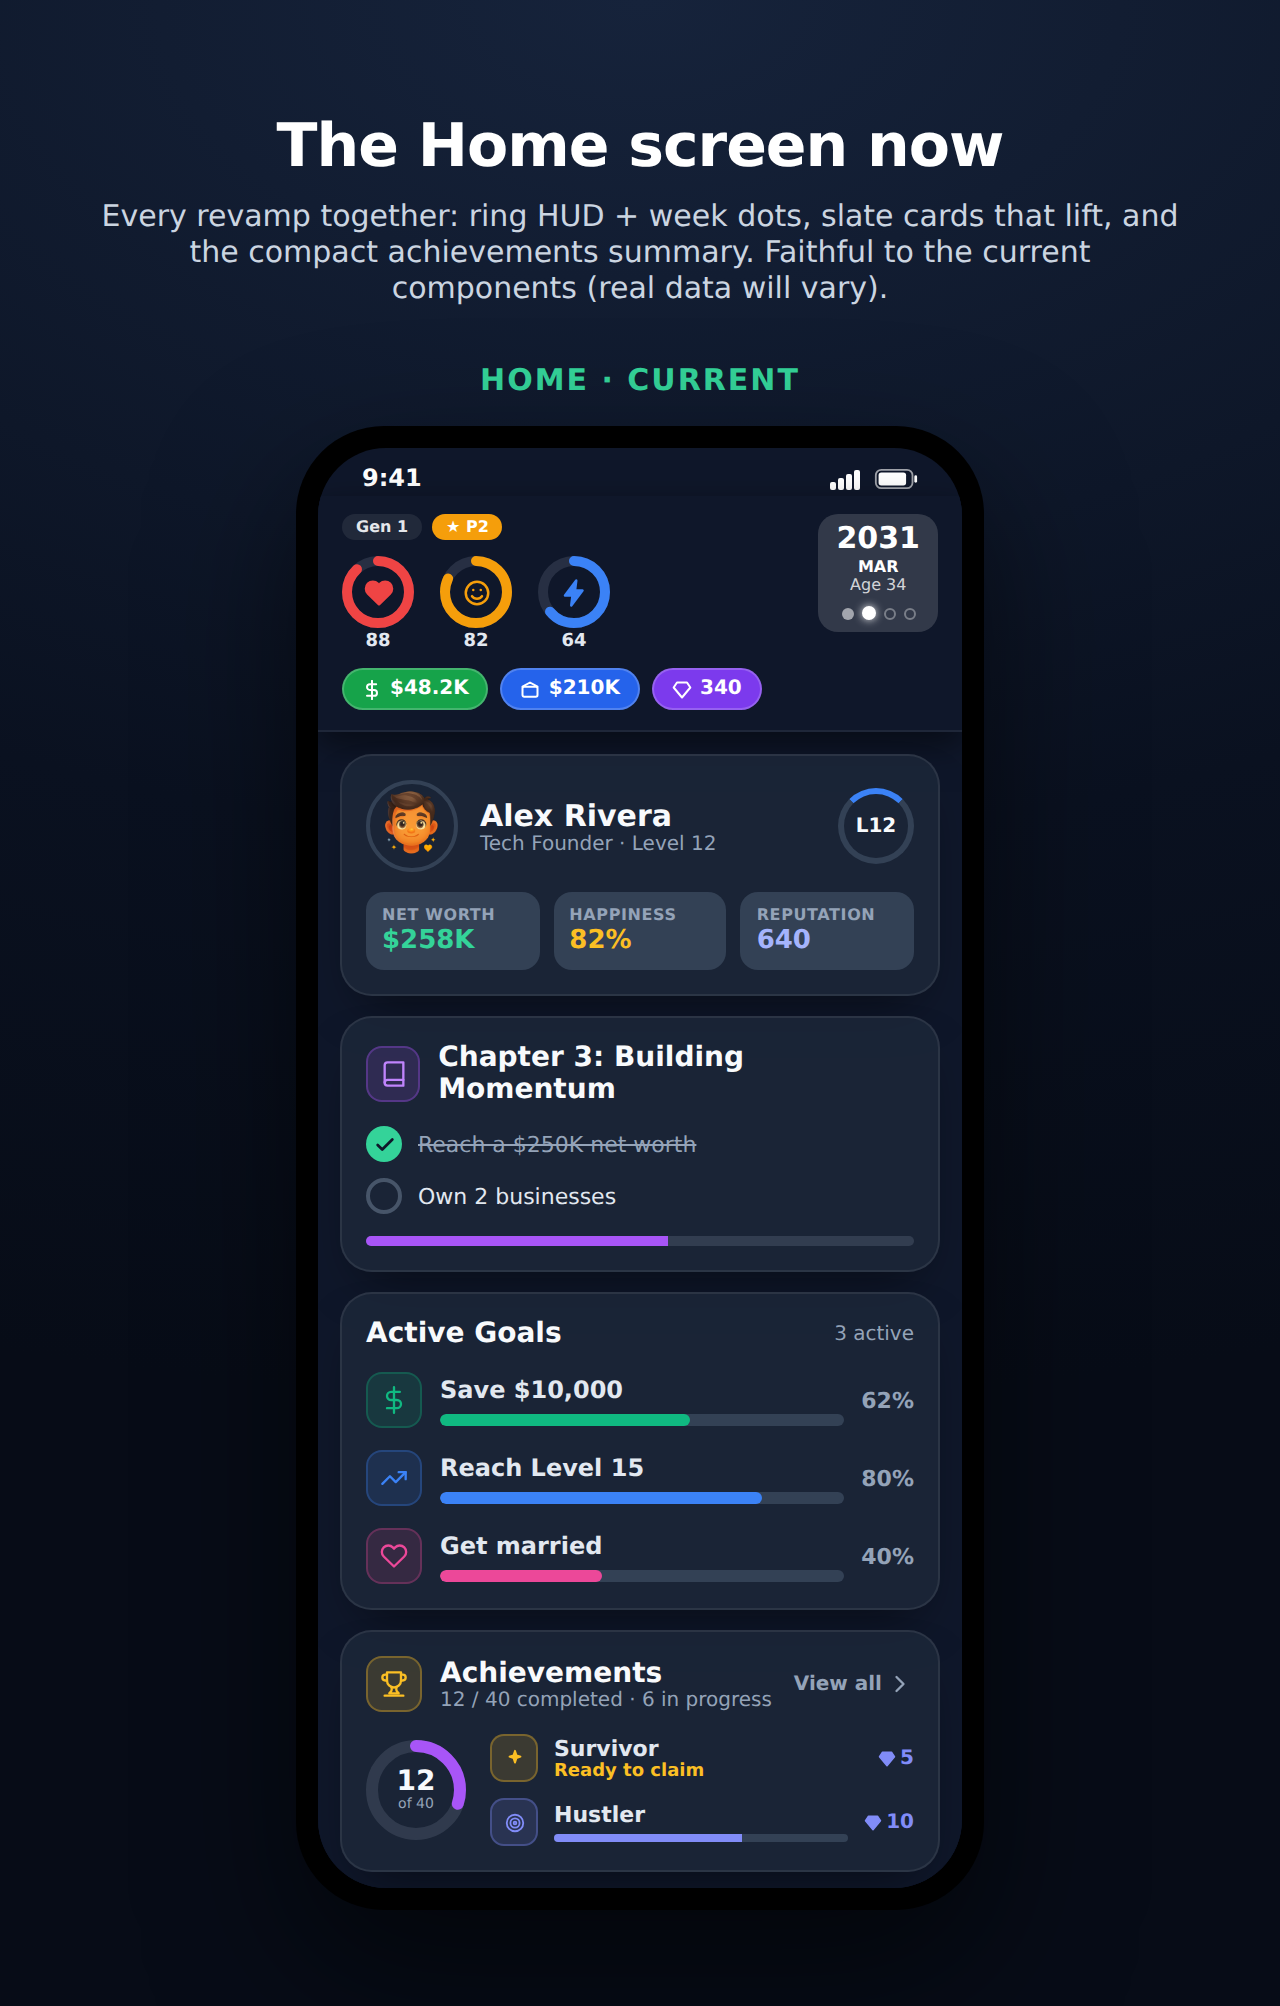
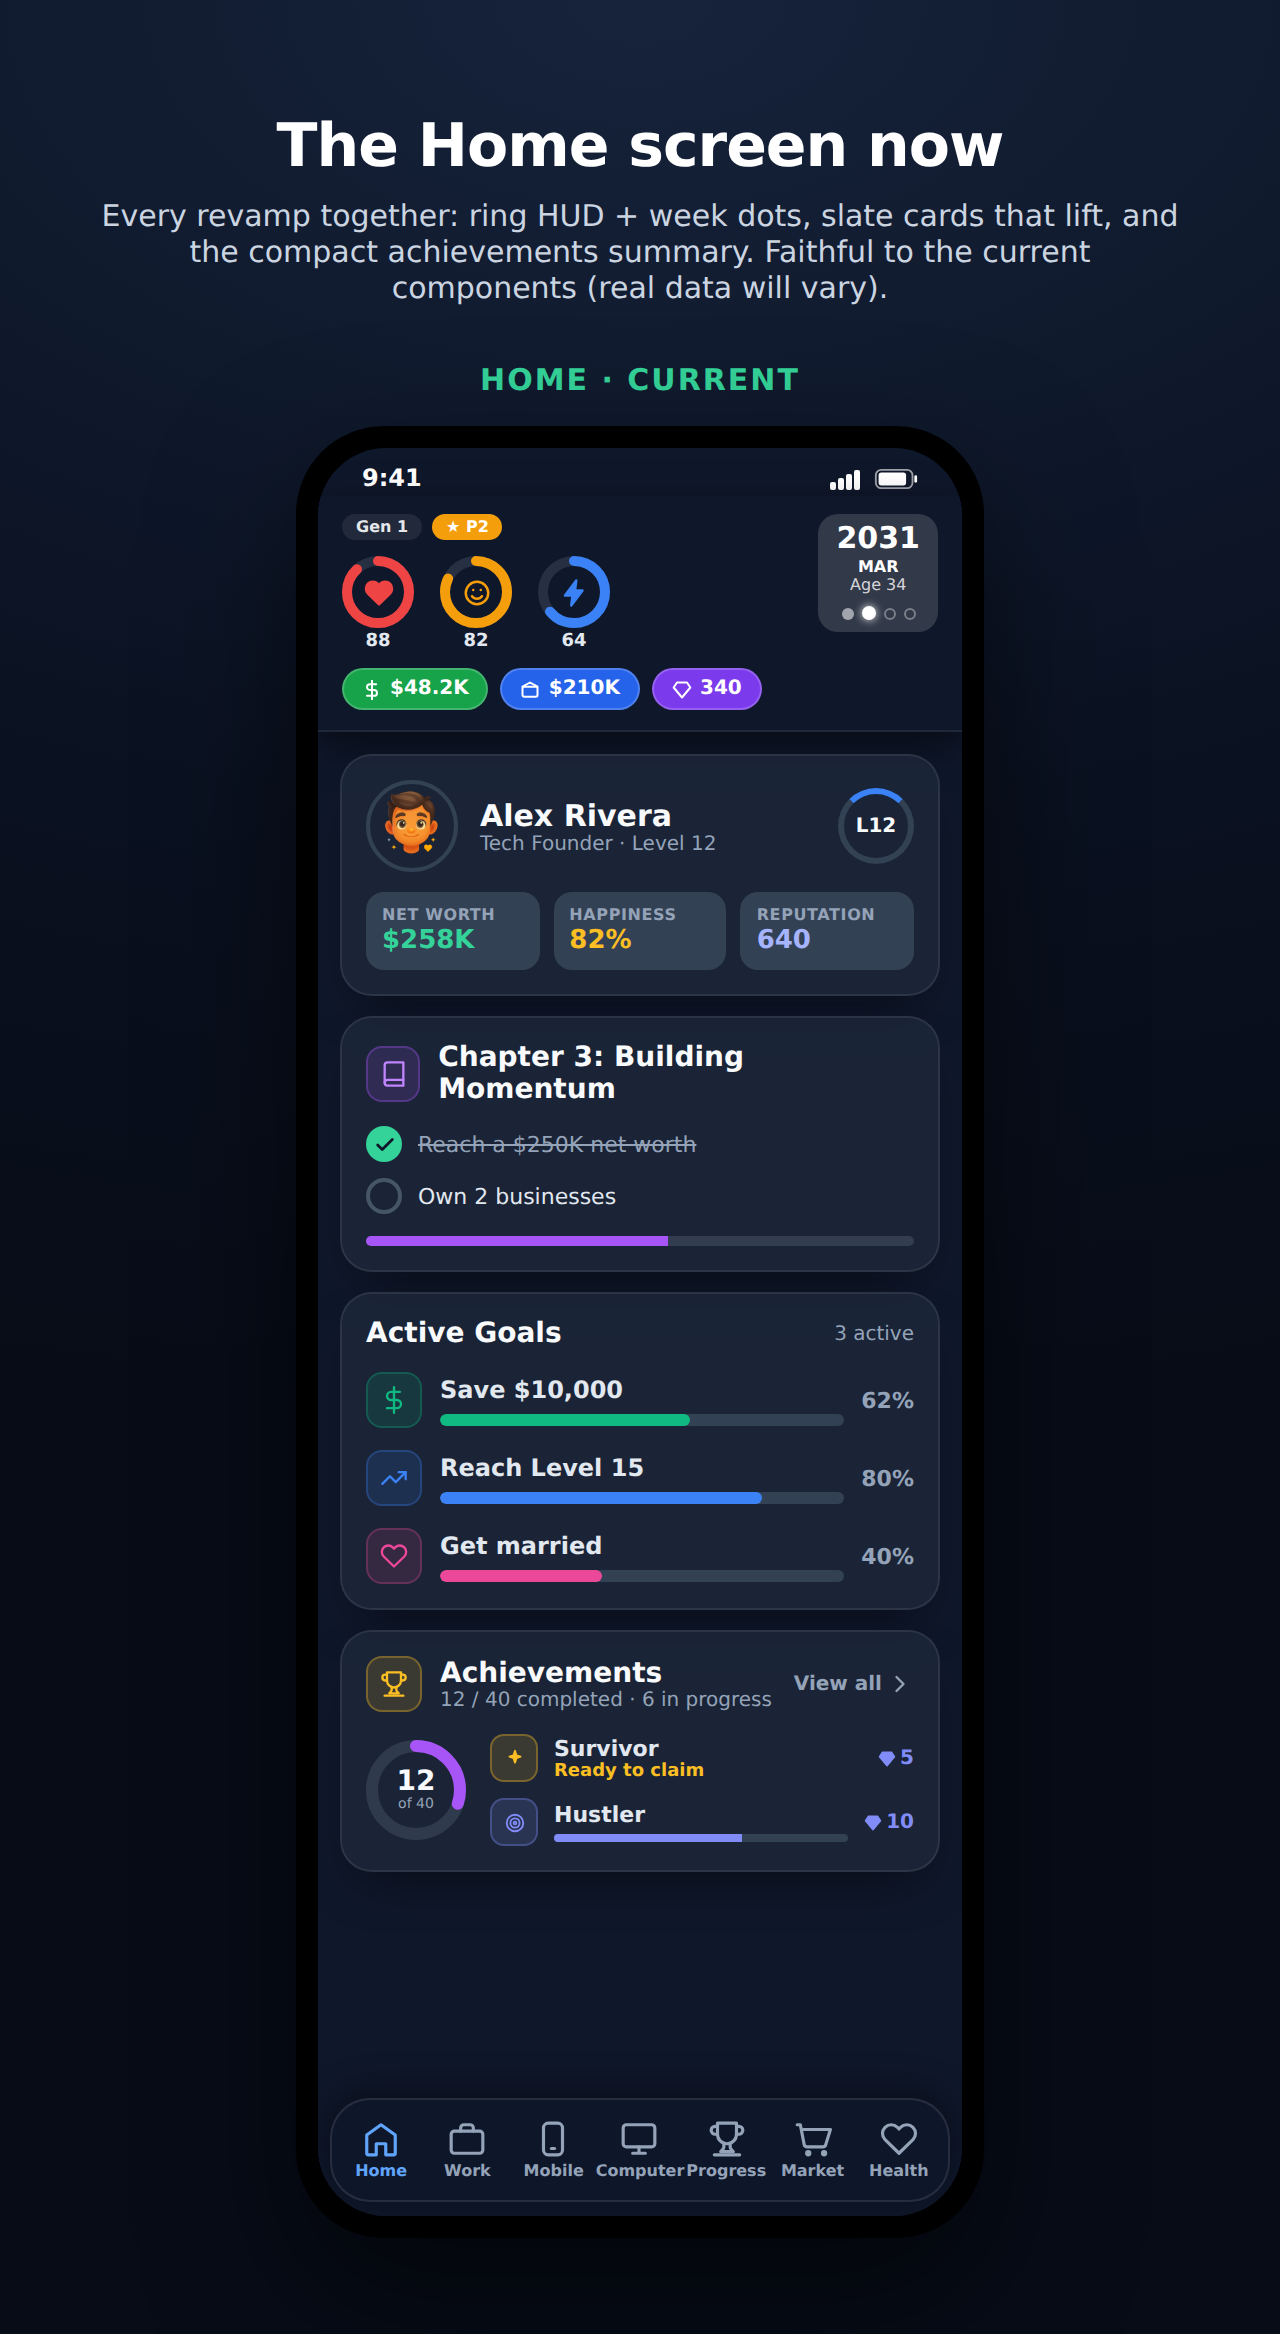
Show the bottom tab bar in the Home preview; slate the tab-bar inactive tint
The Home preview omitted the floating glass tab bar — added it (Home / Work /
Mobile / Computer / Progress / Market / Health, active tab in blue), so the
screenshot reflects the real chrome. Also shifted the tab bar's inactive tint
#9CA3AF -> #94A3B8 in the tab layout so it matches the slate palette — the one
gray the earlier sweep had excluded from the nav layout.

Claude-Session: https://claude.ai/code/session_012CLhLLJm8wG6GWiy2xcRo3

Changed region(s): [[0.0625, 0.0309, 0.9375, 0.9581], [0.625, 0.8345, 0.6875, 0.8654]]

diff --git a/app/(tabs)/_layout.tsx b/app/(tabs)/_layout.tsx
@@ -126,7 +126,7 @@ export default function TabLayout() {
           marginTop: -2,
         },
         tabBarActiveTintColor: isDark ? '#60A5FA' : '#3B82F6',
-        tabBarInactiveTintColor: isDark ? '#9CA3AF' : '#6B7280',
+        tabBarInactiveTintColor: isDark ? '#94A3B8' : '#6B7280',
         // Hide tab bar completely when in prison
         tabBarStyle: (isInPrison || fullscreenApp) ? { display: 'none' } : {
           position: 'absolute',
